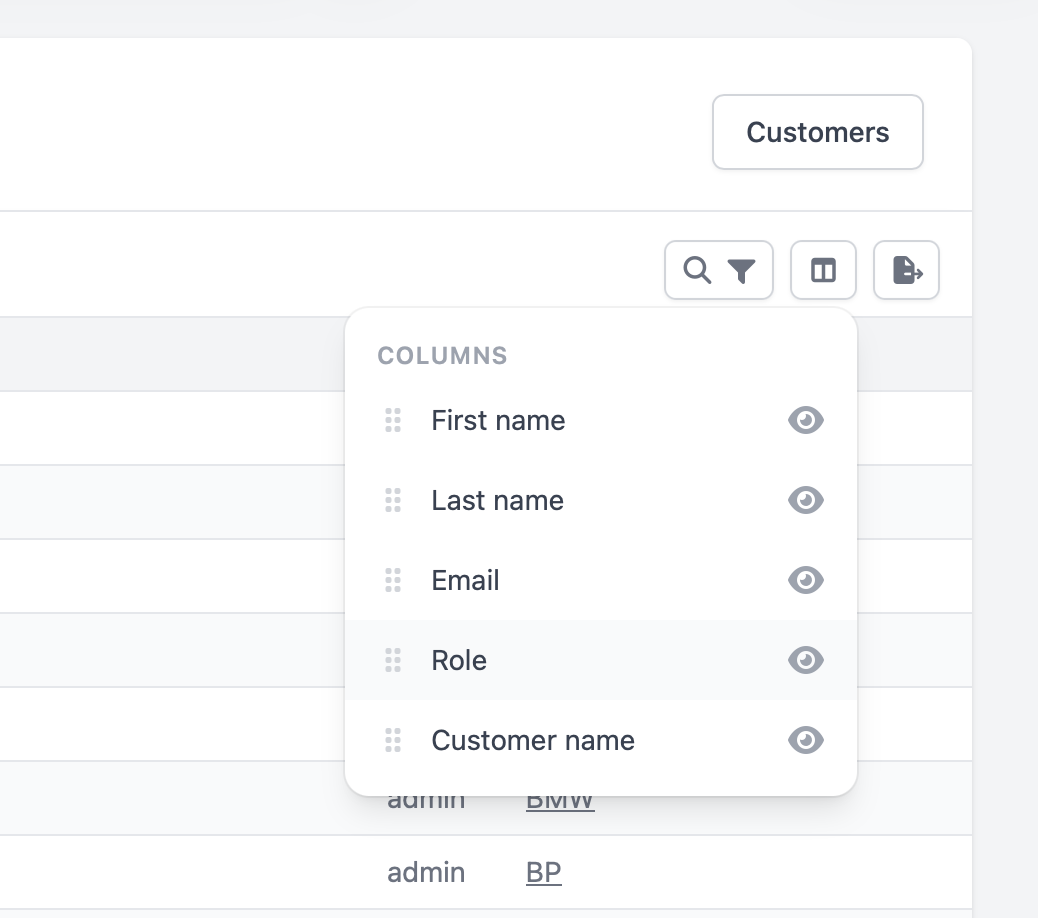
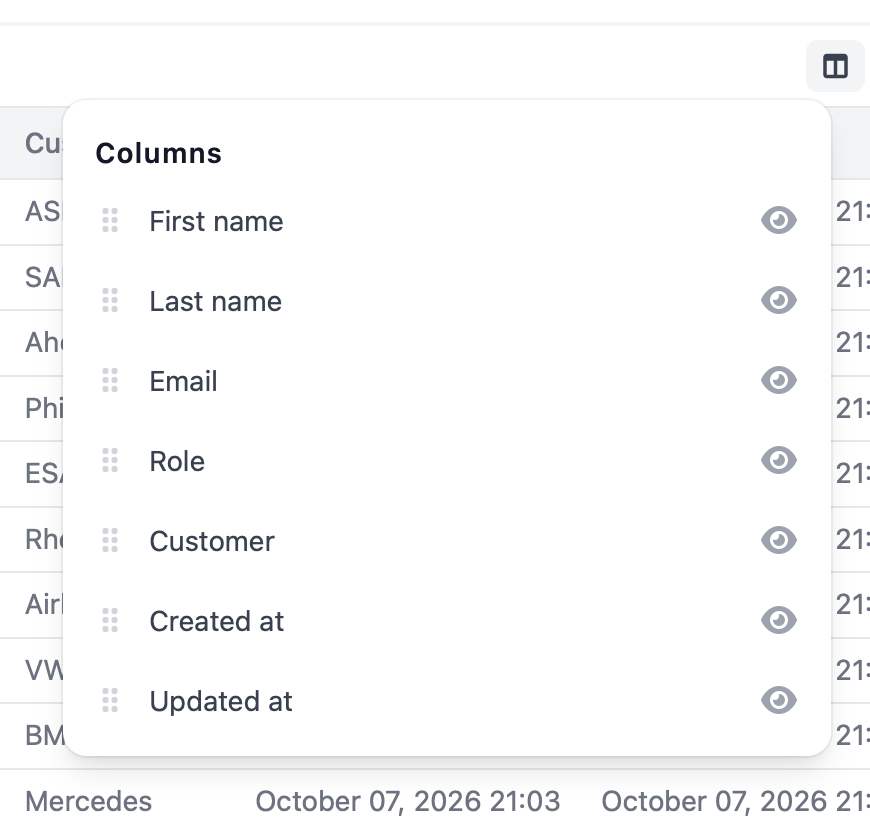
Update readme screenshots

diff --git a/README.md b/README.md
@@ -4,7 +4,8 @@ Fast and awesome tables, with pagination, sorting, filtering, batch processing, 
 Due to search, it only works with postgresql at the moment.
 
 ![table](./docs/table.png)
-![filters](./docs/filters.png)
+![filters](./docs/filters1.png)
+![filters value](./docs/filters2.png)
 ![columns](./docs/columns.png)
 ![export](./docs/export.png)
 
